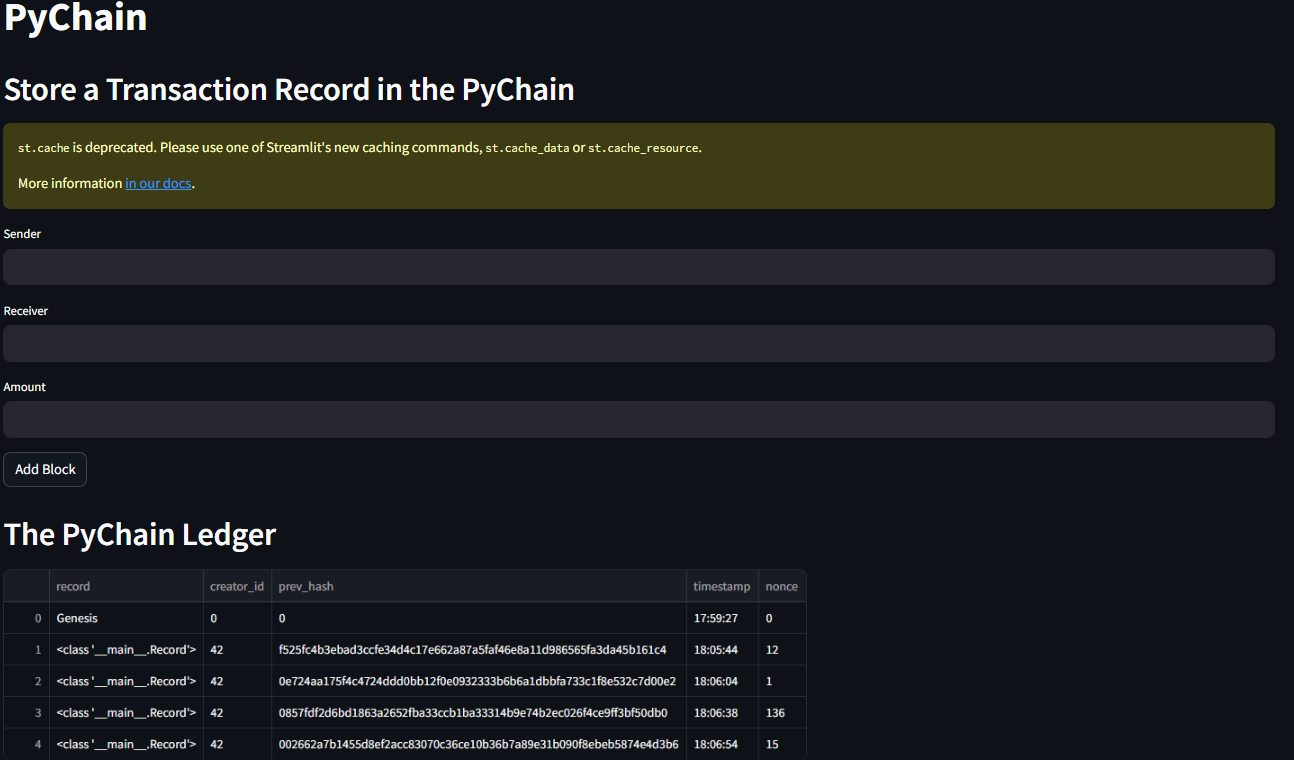
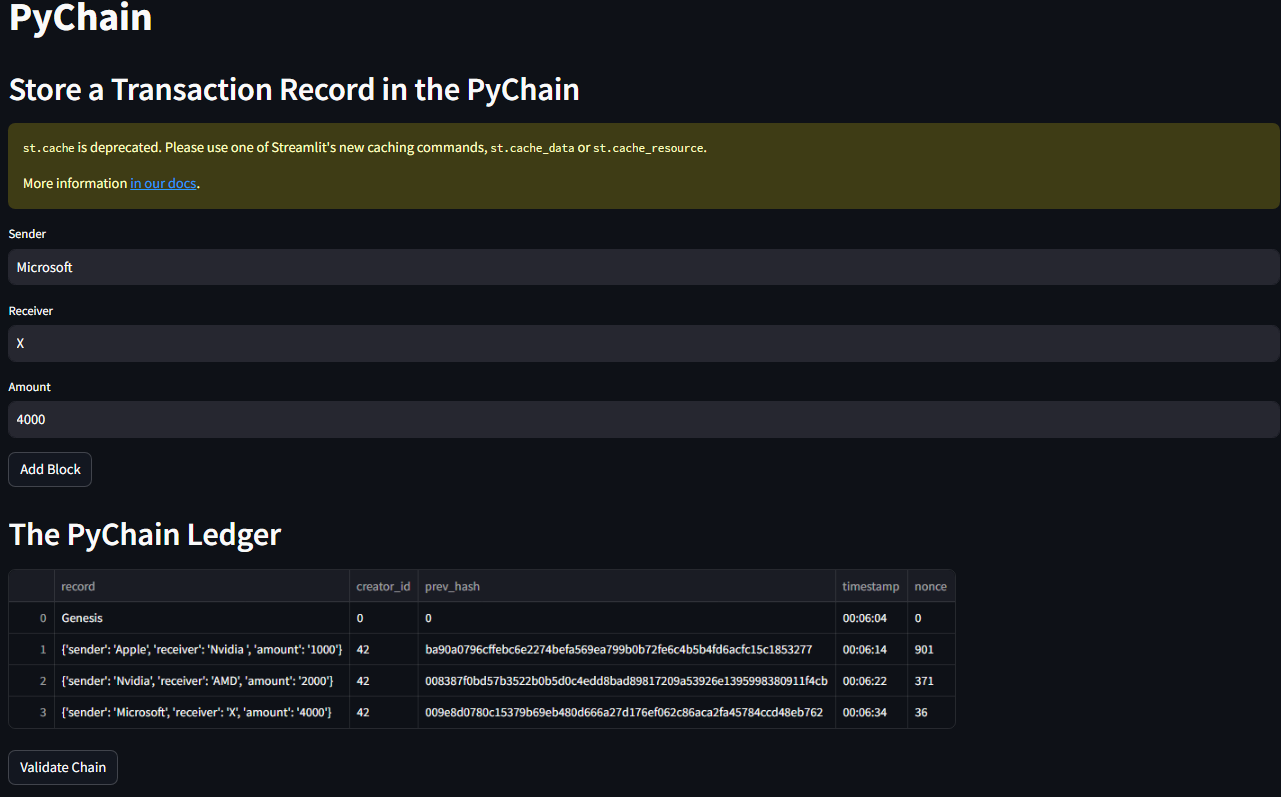
corrected code

Changed region(s): [[0.0, 0.0908, 0.9992, 0.9987], [0.0, 0.0, 0.1249, 0.0605], [0.281, 0.7263, 0.3747, 0.7566]]

diff --git a/pychain.py b/pychain.py
@@ -51,9 +51,9 @@ import hashlib
 # `amount` attributes
 @dataclass
 class Record:
-    sender = str
-    receiver = str
-    amount = float
+    sender: str
+    receiver: str
+    amount: float
 
 
 ################################################################################
@@ -174,15 +174,15 @@ pychain = setup()
 
 # @TODO:
 # Add an input area where you can get a value for `sender` from the user.
-input_sender = st.text_input("Sender")
+sender = st.text_input("Sender")
 
 # @TODO:
 # Add an input area where you can get a value for `receiver` from the user.
-input_receiver = st.text_input("Receiver")
+receiver = st.text_input("Receiver")
 
 # @TODO:
 # Add an input area where you can get a value for `amount` from the user.
-input_amount = st.text_input("Amount")
+amount = st.text_input("Amount")
 
 if st.button("Add Block"):
     prev_block = pychain.chain[-1]
@@ -193,7 +193,7 @@ if st.button("Add Block"):
     # which is set equal to a `Record` that contains the `sender`, `receiver`,
     # and `amount` values
     new_block = Block(
-        record=Record,
+        record=Record(sender, receiver, amount),
         creator_id=42,
         prev_hash=prev_block_hash
     )
